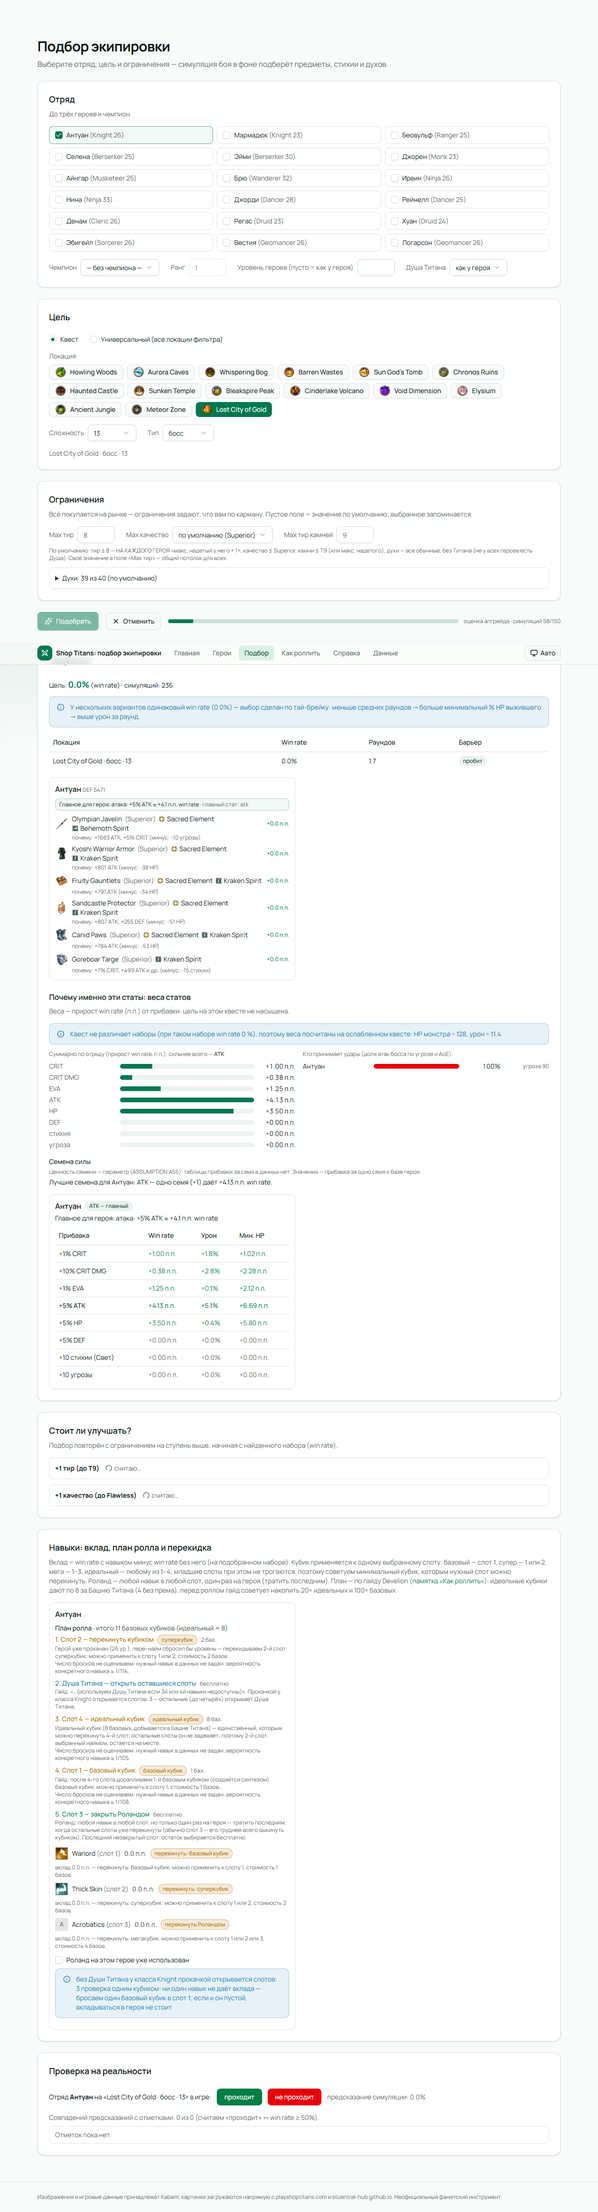
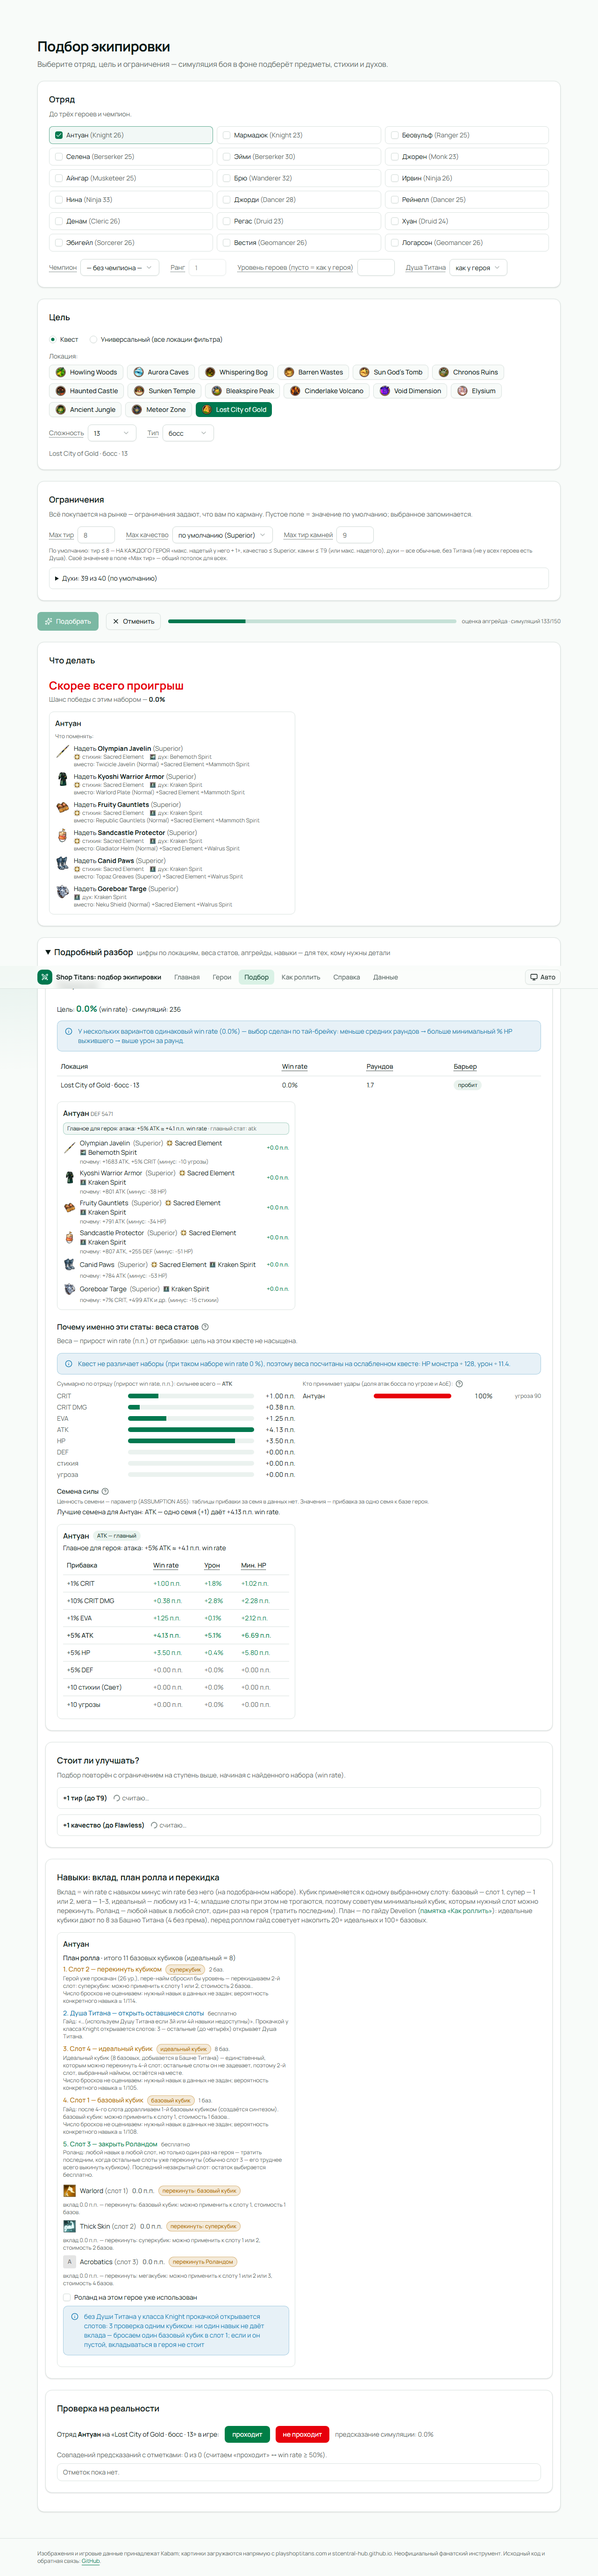
Простой экран результата подбора «Что делать» и сворачиваемый «Подробный разбор»

diff --git a/src/ui/optimize/SimpleResultView.tsx b/src/ui/optimize/SimpleResultView.tsx
@@ -1,0 +1,143 @@
+import { useMemo } from 'react'
+import { Check } from 'lucide-react'
+import { cn } from 'cn'
+import { elementIconId, spiritIconId } from '#/data/images.ts'
+import type { GameData, HeroInstance } from '#/data/types.ts'
+import { VERDICT_LIKELY_MIN, VERDICT_RISKY_MIN, VERDICT_SURE_MIN, WHATIF_WORTH_MIN_DELTA } from '#/engine/constants.ts'
+import type { OptimizerResult } from '#/engine/optimizer.ts'
+import { GameIcon } from '#/ui/GameIcon.tsx'
+import { Notice, Section } from '#/ui/layout.tsx'
+import { pct } from './format.ts'
+import type { UpgradeRow } from './UpgradeView.tsx'
+
+interface SimpleResultViewProps {
+  data: GameData
+  team: HeroInstance[]
+  res: OptimizerResult
+  /** Строки «стоит ли улучшать» (если уже посчитаны) — показываем только те, что окупаются. */
+  upgrades: UpgradeRow[] | null
+}
+
+type Tone = 'success' | 'info' | 'warning' | 'error'
+
+/** Словесный вердикт по win rate (границы — constants.ts, A61). */
+function verdict(winRate: number): { text: string; tone: Tone } {
+  if (winRate >= VERDICT_SURE_MIN) return { text: 'Почти наверняка победа', tone: 'success' }
+  if (winRate >= VERDICT_LIKELY_MIN) return { text: 'Скорее всего победа', tone: 'info' }
+  if (winRate >= VERDICT_RISKY_MIN) return { text: 'Рискованно: можно проиграть', tone: 'warning' }
+  return { text: 'Скорее всего проигрыш', tone: 'error' }
+}
+
+const VERDICT_TEXT_CLASS: Record<Tone, string> = {
+  success: 'text-success',
+  info: 'text-info',
+  warning: 'text-warning',
+  error: 'text-destructive',
+}
+
+/** Простая сводка результата для обычного игрока: вердикт и список «что надеть». Цифры и разбор — в «Подробном разборе». */
+export function SimpleResultView({ data, team, res, upgrades }: SimpleResultViewProps) {
+  const itemByName = useMemo(() => new Map(data.items.map((i) => [i.name, i])), [data])
+  const enchantByName = useMemo(() => new Map(data.enchants.map((e) => [e.name, e])), [data])
+
+  const v = verdict(res.winRate)
+  const before = res.winRate - res.improvement
+  const worthUpgrades = (upgrades ?? []).filter((u) => u.state === 'done' && u.outcome && u.outcome.delta >= WHATIF_WORTH_MIN_DELTA)
+  const nothingToChange = res.explanations.every((list) => list.length === 0)
+
+  return (
+    <Section title="Что делать">
+      <p className={cn('text-2xl font-bold', VERDICT_TEXT_CLASS[v.tone])}>{v.text}</p>
+      <p className="mt-1 mb-4 text-sm text-muted-foreground">
+        Шанс победы с этим набором — <b className="text-foreground">{pct(res.winRate)}</b>
+        {res.improvement > 0.0005 ? <> (с тем, что надето сейчас, было {pct(before)})</> : null}
+        {res.cancelled ? ' · подбор отменён, результат частичный' : ''}
+      </p>
+      {res.warnings.map((w) => (
+        <Notice key={w} tone="warning">
+          {w}
+        </Notice>
+      ))}
+      {nothingToChange ? (
+        <Notice tone="success">Менять ничего не нужно: текущая экипировка уже лучшая из найденных.</Notice>
+      ) : null}
+
+      <div className="grid gap-4 lg:grid-cols-2">
+        {res.configs.map((cfg, hi) => {
+          const hero = team[hi]
+          const changes = res.explanations[hi] ?? []
+          return (
+            <div key={hero?.id ?? hi} className="rounded-lg border p-3">
+              <h3 className="mb-2 font-semibold">{hero?.name ?? `Герой ${hi + 1}`}</h3>
+              {changes.length === 0 ? (
+                <p className="flex items-center gap-1.5 text-sm text-success">
+                  <Check className="size-4" /> Ничего менять не нужно
+                </p>
+              ) : (
+                <>
+                  <p className="mb-2 text-xs text-muted-foreground">Что поменять:</p>
+                  <ol className="space-y-2 text-sm">
+                    {changes.map((e) => {
+                      const sc = cfg[e.slot]
+                      const item = sc?.item ? itemByName.get(sc.item) : null
+                      return (
+                        <li key={e.slot} className="flex items-start gap-2">
+                          <GameIcon kind="item" id={item?.imageId} label={sc?.item ?? 'пусто'} size={32} />
+                          <div className="min-w-0">
+                            {sc?.item ? (
+                              <>
+                                <p>
+                                  Надеть <b>{sc.item}</b> <span className="text-muted-foreground">({sc.quality})</span>
+                                </p>
+                                {sc.element || sc.spirit ? (
+                                  <p className="flex flex-wrap items-center gap-x-3 text-xs text-muted-foreground">
+                                    {sc.element ? (
+                                      <span className="inline-flex items-center gap-1">
+                                        <GameIcon kind="element" id={enchantByName.get(sc.element)?.iconId ?? elementIconId('Any')} label={sc.element} size={14} />
+                                        стихия: {sc.element}
+                                      </span>
+                                    ) : null}
+                                    {sc.spirit ? (
+                                      <span className="inline-flex items-center gap-1">
+                                        <GameIcon kind="spirit" id={spiritIconId(sc.spirit)} label={sc.spirit} size={14} />
+                                        дух: {sc.spirit}
+                                      </span>
+                                    ) : null}
+                                  </p>
+                                ) : null}
+                              </>
+                            ) : (
+                              <p>Снять предмет с этого слота</p>
+                            )}
+                            <p className="text-xs text-muted-foreground">вместо: {e.from}</p>
+                          </div>
+                        </li>
+                      )
+                    })}
+                  </ol>
+                  {changes.length < cfg.length ? (
+                    <p className="mt-2 text-xs text-muted-foreground">Остальные слоты оставьте как есть.</p>
+                  ) : null}
+                </>
+              )}
+            </div>
+          )
+        })}
+      </div>
+
+      {worthUpgrades.length > 0 ? (
+        <div className="mt-4 text-sm">
+          <p className="mb-1 font-semibold">Если хотите ещё сильнее:</p>
+          <ul className="list-disc space-y-0.5 pl-5">
+            {worthUpgrades.map((u) => (
+              <li key={u.kind}>
+                {u.kind === 'tier' ? 'Прокачайте тир предметов' : 'Улучшите качество предметов'} ({u.label}) — шанс победы вырастет до{' '}
+                <b>{pct(u.outcome!.objective)}</b>
+              </li>
+            ))}
+          </ul>
+        </div>
+      ) : null}
+    </Section>
+  )
+}

diff --git a/src/routes/optimize.tsx b/src/routes/optimize.tsx
@@ -34,6 +34,7 @@ import { Tip } from '#/ui/Hint.tsx'
 import { Field, Notice, Page, Section } from '#/ui/layout.tsx'
 import { RealityChecksView } from '#/ui/optimize/RealityChecksView.tsx'
 import { ResultView } from '#/ui/optimize/ResultView.tsx'
+import { SimpleResultView } from '#/ui/optimize/SimpleResultView.tsx'
 import { SkillAdviceView } from '#/ui/optimize/SkillAdviceView.tsx'
 import { UpgradeView, type UpgradeRow } from '#/ui/optimize/UpgradeView.tsx'
 
@@ -543,19 +544,28 @@ function OptimizePage() {
 
       {result ? (
         <>
-          <ResultView data={data} team={result.ctx.team} result={result} objectiveLabel={result.ctx.objectiveLabel} seeds={seeds} />
-          {upgrades ? <UpgradeView team={result.ctx.team} rows={upgrades} objectiveLabel={result.ctx.objectiveLabel} /> : null}
-          {advice && advice.advice.length > 0 ? <SkillAdviceView data={data} team={result.ctx.team} advice={advice} /> : null}
-          <RealityChecksView
-            checks={checks}
-            onChecksChange={setChecks}
-            target={
-              result.ctx.quest
-                ? { questLabel: questLabel(result.ctx.quest), teamLabel: result.ctx.teamLabel, simWinRate: result.res.winRate }
-                : null
-            }
-            onMark={(passed) => void markReality(passed)}
-          />
+          <SimpleResultView data={data} team={result.ctx.team} res={result.res} upgrades={upgrades} />
+          <details className="group mb-6 rounded-xl border bg-card p-4 shadow-sm">
+            <summary className="cursor-pointer text-lg font-semibold">
+              Подробный разбор
+              <span className="ml-2 text-sm font-normal text-muted-foreground">цифры по локациям, веса статов, апгрейды, навыки — для тех, кому нужны детали</span>
+            </summary>
+            <div className="mt-4">
+              <ResultView data={data} team={result.ctx.team} result={result} objectiveLabel={result.ctx.objectiveLabel} seeds={seeds} />
+              {upgrades ? <UpgradeView team={result.ctx.team} rows={upgrades} objectiveLabel={result.ctx.objectiveLabel} /> : null}
+              {advice && advice.advice.length > 0 ? <SkillAdviceView data={data} team={result.ctx.team} advice={advice} /> : null}
+              <RealityChecksView
+                checks={checks}
+                onChecksChange={setChecks}
+                target={
+                  result.ctx.quest
+                    ? { questLabel: questLabel(result.ctx.quest), teamLabel: result.ctx.teamLabel, simWinRate: result.res.winRate }
+                    : null
+                }
+                onMark={(passed) => void markReality(passed)}
+              />
+            </div>
+          </details>
         </>
       ) : null}
     </Page>

diff --git a/e2e/optimize.spec.ts b/e2e/optimize.spec.ts
@@ -1,5 +1,5 @@
 import { expect, test } from '@playwright/test'
-import { importHeroesViaFile, pickHero, runOptimize, section, selectByLabel, shot, watchErrors, pickQuest } from './helpers.ts'
+import { importHeroesViaFile, openDetails, pickHero, runOptimize, section, selectByLabel, shot, watchErrors, pickQuest } from './helpers.ts'
 
 test('подбор для одного героя под квест + советы по навыкам + отметка', async ({ page }) => {
   const errors = watchErrors(page)
@@ -10,6 +10,8 @@ test('подбор для одного героя под квест + совет
   await pickQuest(page, 'Lost City of Gold', '13', 'boss')
   await shot(page, 'optimize-form.png')
   await runOptimize(page)
+  // Простой экран: вердикт словами и шанс победы, без жаргона.
+  await expect(section(page, 'Что делать').getByText(/Шанс победы с этим набором — \d+(\.\d)?%/)).toBeVisible()
   await expect(section(page, 'Результат').getByText(/Цель: \d+(\.\d)?%/)).toBeVisible()
   await expect(section(page, 'Результат').getByText('Lost City of Gold · босс · 13')).toBeVisible()
   await shot(page, 'optimize-result.png')
@@ -118,6 +120,8 @@ test('отмена посреди расчёта; тяжёлый расчёт н
   await shot(page, 'optimize-running.png')
 
   await page.getByRole('button', { name: 'Отменить' }).click()
-  await expect(section(page, 'Результат').getByText('отменено, результат частичный')).toBeVisible({ timeout: 60_000 })
+  await expect(section(page, 'Что делать')).toBeVisible({ timeout: 60_000 })
+  await openDetails(page)
+  await expect(section(page, 'Результат').getByText('отменено, результат частичный')).toBeVisible()
   expect(errors).toEqual([])
 })

diff --git a/e2e/helpers.ts b/e2e/helpers.ts
@@ -82,10 +82,18 @@ export async function selectByLabel(locator: import('@playwright/test').Locator,
   await locator.selectOption({ value })
 }
 
-/** Запускает подбор и ждёт секцию «Результат». */
+/** Раскрывает «Подробный разбор» (по умолчанию после подбора виден только простой экран «Что делать»). */
+export async function openDetails(page: Page): Promise<void> {
+  const details = page.locator('details').filter({ hasText: 'Подробный разбор' })
+  if ((await details.getAttribute('open')) === null) await details.locator('summary').click()
+}
+
+/** Запускает подбор, ждёт простой экран «Что делать» и раскрывает подробный разбор с секцией «Результат». */
 export async function runOptimize(page: Page): Promise<void> {
   await page.getByRole('button', { name: 'Подобрать' }).click()
-  await expect(section(page, 'Результат')).toBeVisible({ timeout: 180_000 })
+  await expect(section(page, 'Что делать')).toBeVisible({ timeout: 180_000 })
+  await openDetails(page)
+  await expect(section(page, 'Результат')).toBeVisible()
 }
 
 /** Выбор квеста в режиме «Квест»: кнопка локации с иконкой, затем сложность и тип. */

diff --git a/src/engine/constants.ts b/src/engine/constants.ts
@@ -284,6 +284,15 @@ export const OPTIMIZER_WHATIF_SIM_BUDGET = 150
 // ASSUMPTION: A41 — порог выбран по шуму симуляции, данных нет.
 export const WHATIF_WORTH_MIN_DELTA = 0.01
 
+/**
+ * Пороги словесного вердикта для простого экрана результата: win rate ≥ порога → соответствующая фраза.
+ * Только подача для обычного игрока, на расчёты не влияет.
+ */
+// ASSUMPTION: A61 — границы выбраны «на глаз» (≥90% почти наверняка, <40% скорее проигрыш), данных нет.
+export const VERDICT_SURE_MIN = 0.9
+export const VERDICT_LIKELY_MIN = 0.7
+export const VERDICT_RISKY_MIN = 0.4
+
 // ─────────────────────────── Веса статов и семена силы ───────────────────────────
 // Веса статов (src/engine/statWeights.ts) измеряются симуляцией на том же наборе, что и результат
 // подбора, на общих seed (CRN): «+1% крита» — прибавка 0.01 к доле крита и т. д. Шаги заданы

diff --git a/docs/PROGRESS.md b/docs/PROGRESS.md
@@ -1,5 +1,15 @@
 # Прогресс
 
+## Сессия 21 — 2026-10-12: простой экран результата подбора
+
+Сделано:
+- После подбора сверху новая секция **«Что делать»** (`src/ui/optimize/SimpleResultView.tsx`): вердикт словами («Почти наверняка победа» …), шанс победы (и «было» при приросте), по каждому герою — только что **поменять** (иконка, предмет, стихия, дух, «вместо: …»), остальные слоты «оставьте как есть», «Ничего менять не нужно», совет по апгрейду только если он окупается. Без статов, п.п., тай-брейка и весов.
+- Всё прежнее (результат по локациям, веса статов, «Стоит ли улучшать?», навыки, проверка на реальности) ушло в сворачиваемый блок **«Подробный разбор»** (закрыт по умолчанию) — для тех, кому нужны детали.
+- Пороги вердикта — `VERDICT_*_MIN` в `constants.ts` (A61, допущение).
+- e2e: `runOptimize` ждёт «Что делать» и раскрывает «Подробный разбор» (`openDetails`); добавлена проверка простого экрана.
+
+Дальше: посмотреть простой экран глазами обычного игрока (порядок слотов — сейчас по списку изменений, без названий слотов вроде «Оружие»), при желании показать итог по группе локаций («худшая локация») человеческим языком.
+
 ## Сессия 20 — 2026-10-12: всплывающие подсказки (tooltip) по всему интерфейсу
 
 - Добавлен `src/ui/Hint.tsx`: `Hint` (значок «?»), `Tip` (подсказка поверх любого элемента), `HintLabel` (подпись с пунктирным подчёркиванием). `Field` получил проп `hint` — доступное имя поля не меняется.
